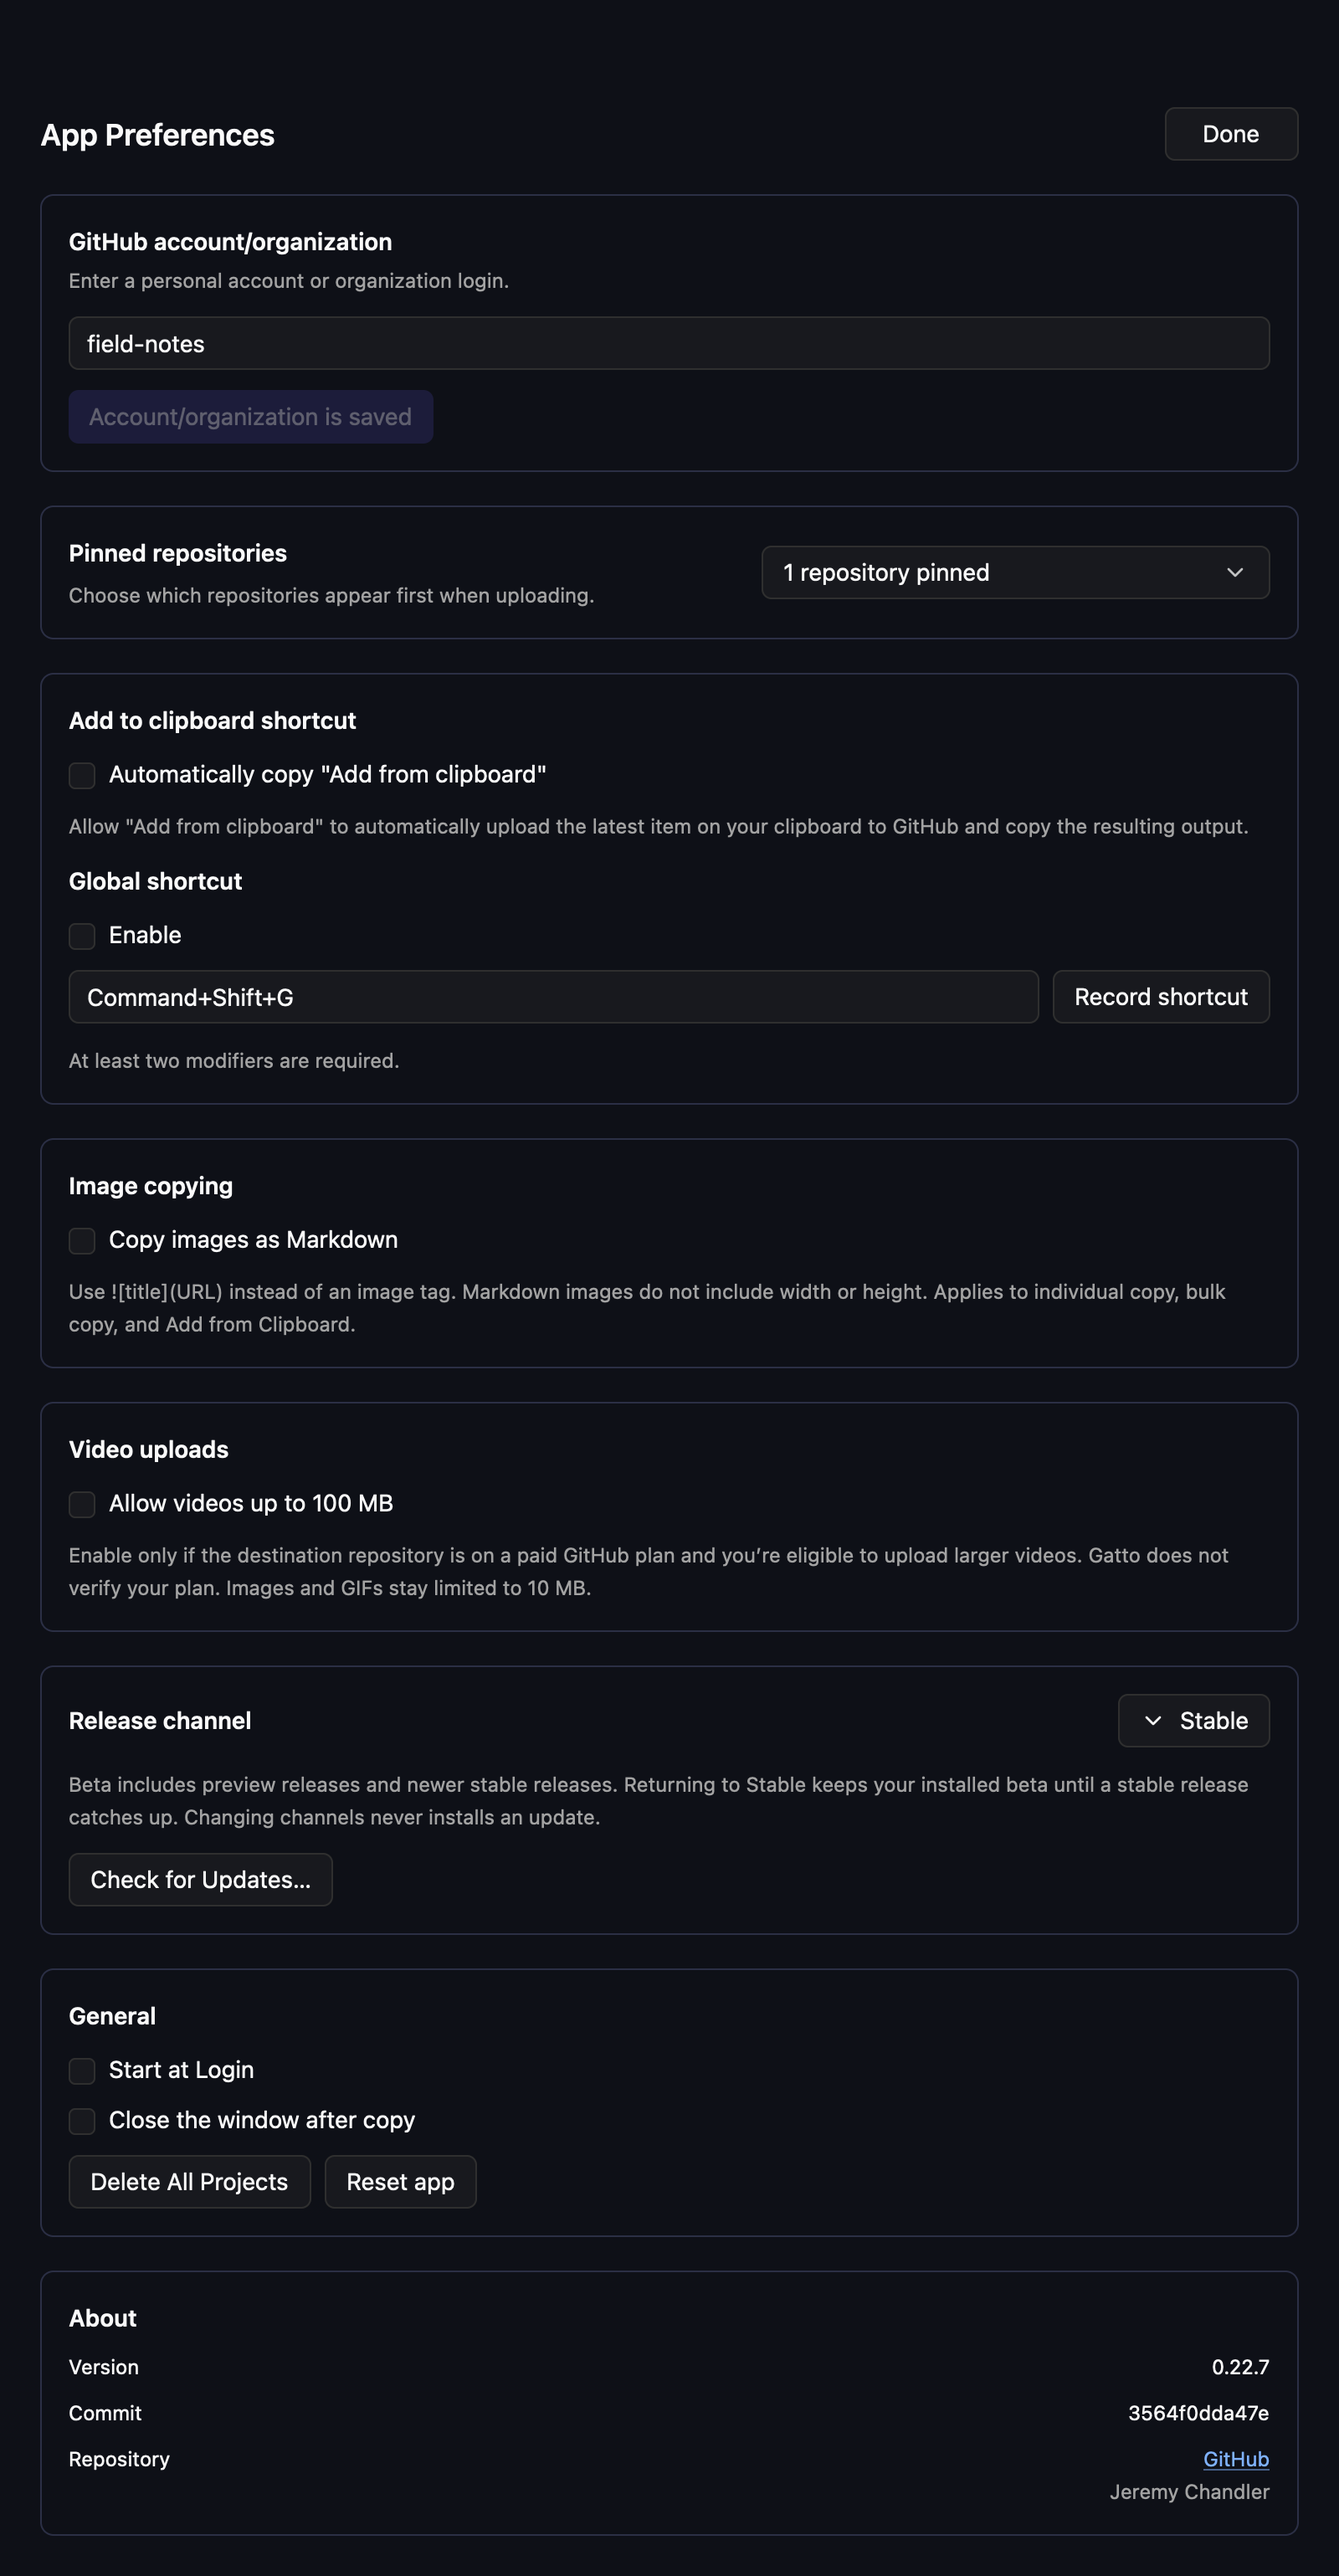
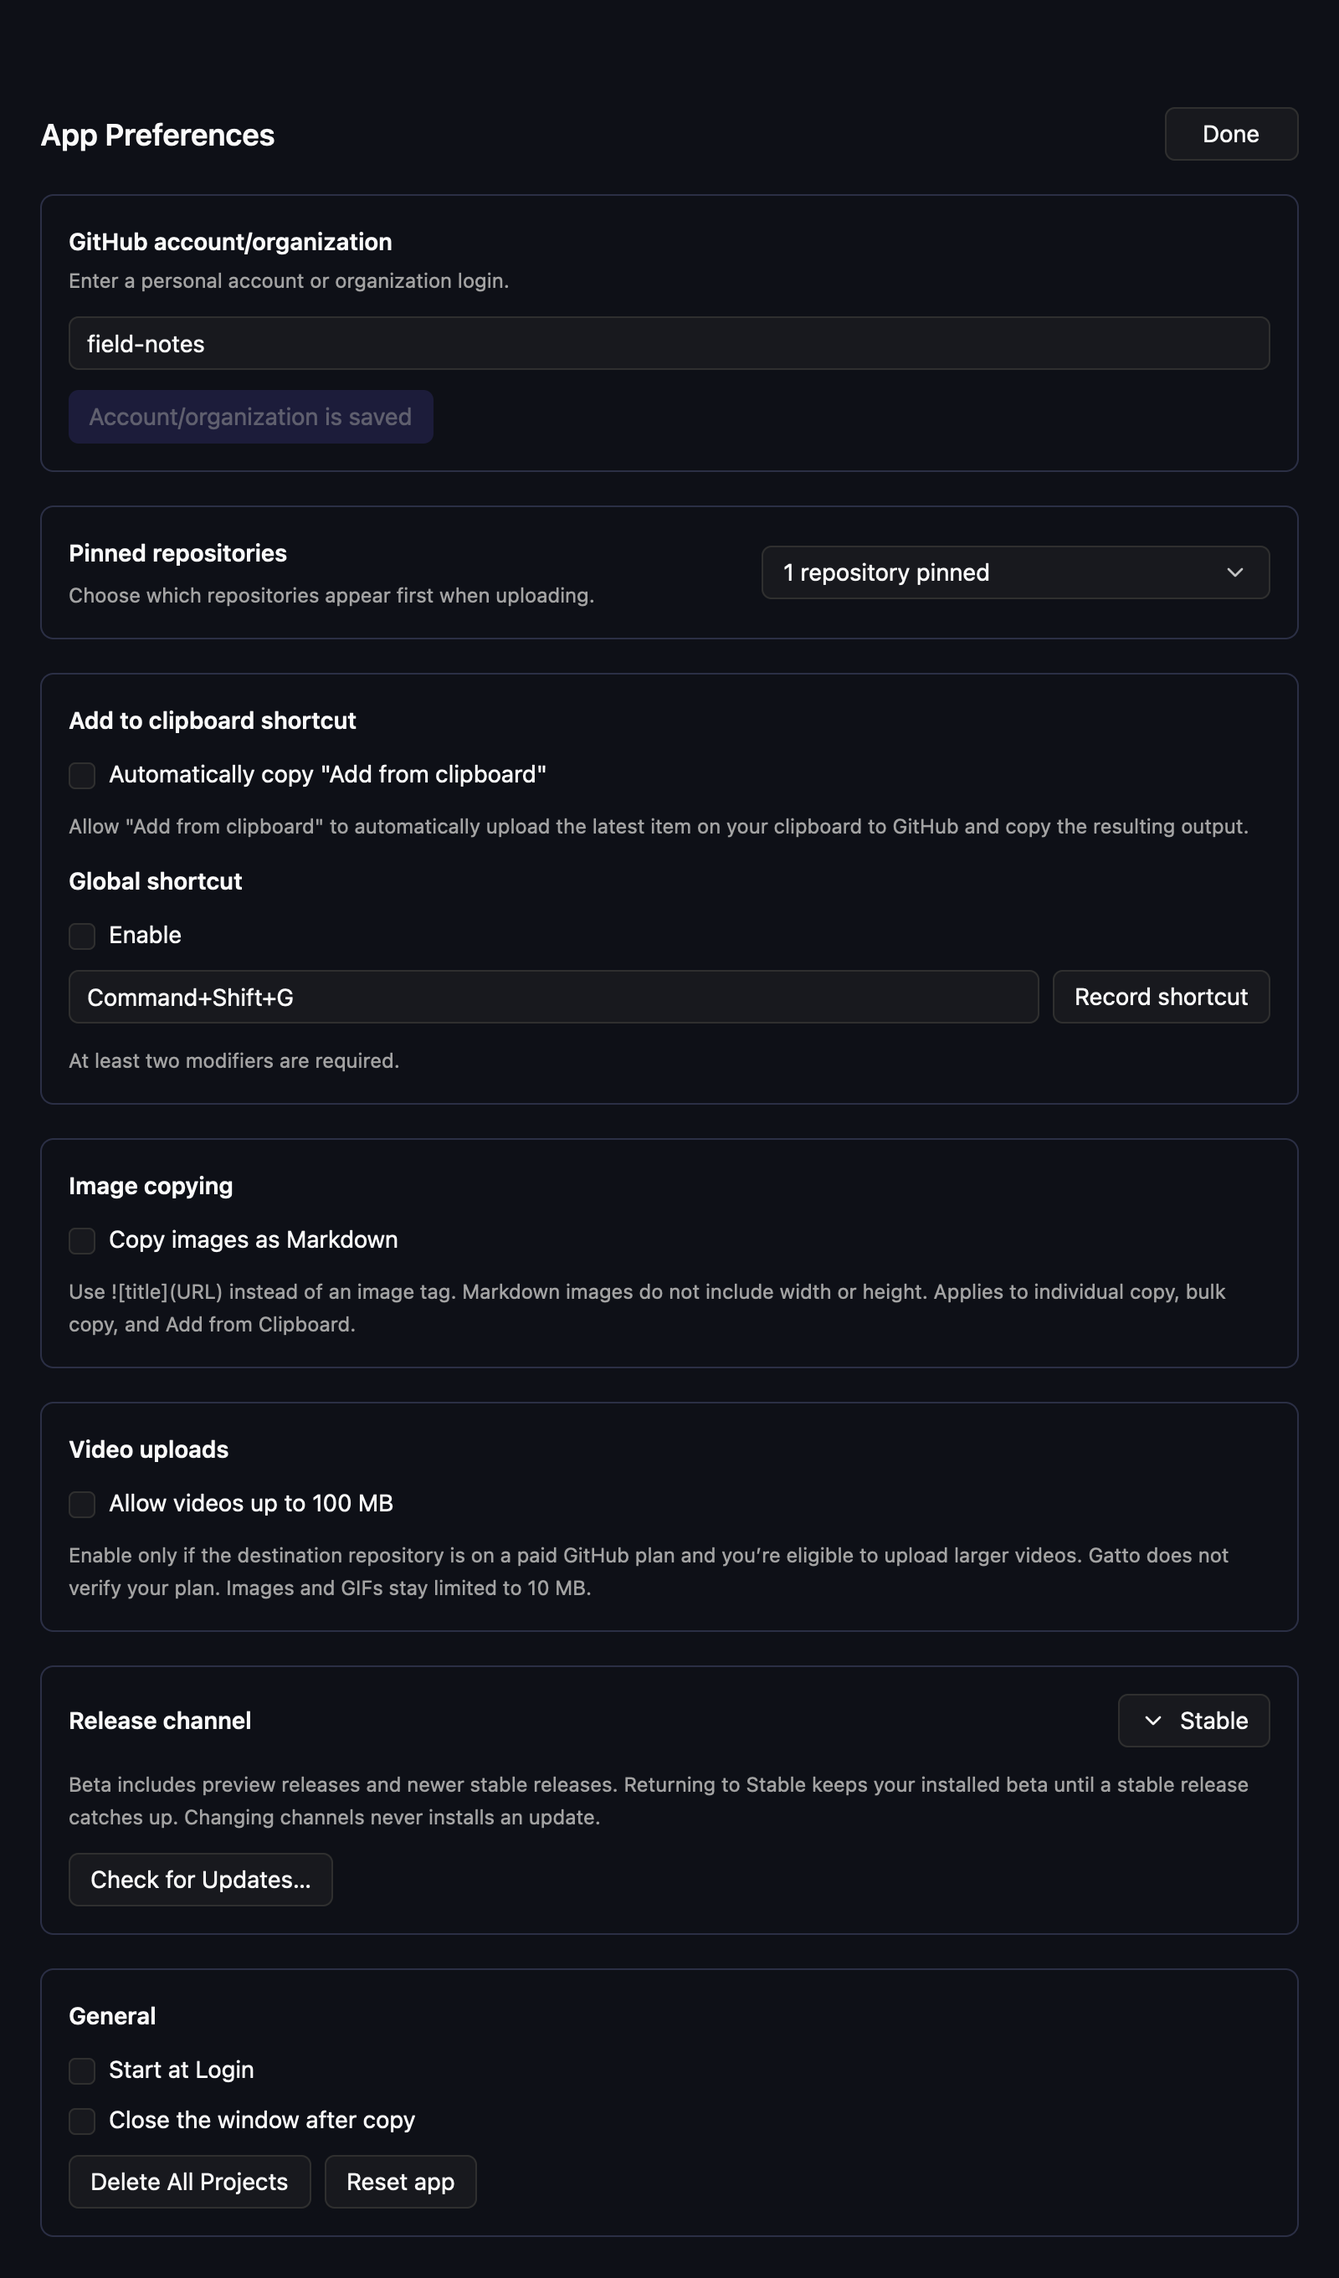
Release v0.22.8

diff --git a/CHANGELOG.md b/CHANGELOG.md
@@ -7,6 +7,8 @@ and this project follows [Semantic Versioning](https://semver.org/spec/v2.0.0.ht
 
 ## [Unreleased]
 
+## [0.22.8] - 2026-11-05
+
 ### Changed
 
 - Move About from App Preferences to the Gatto menu. The native dialog shows
